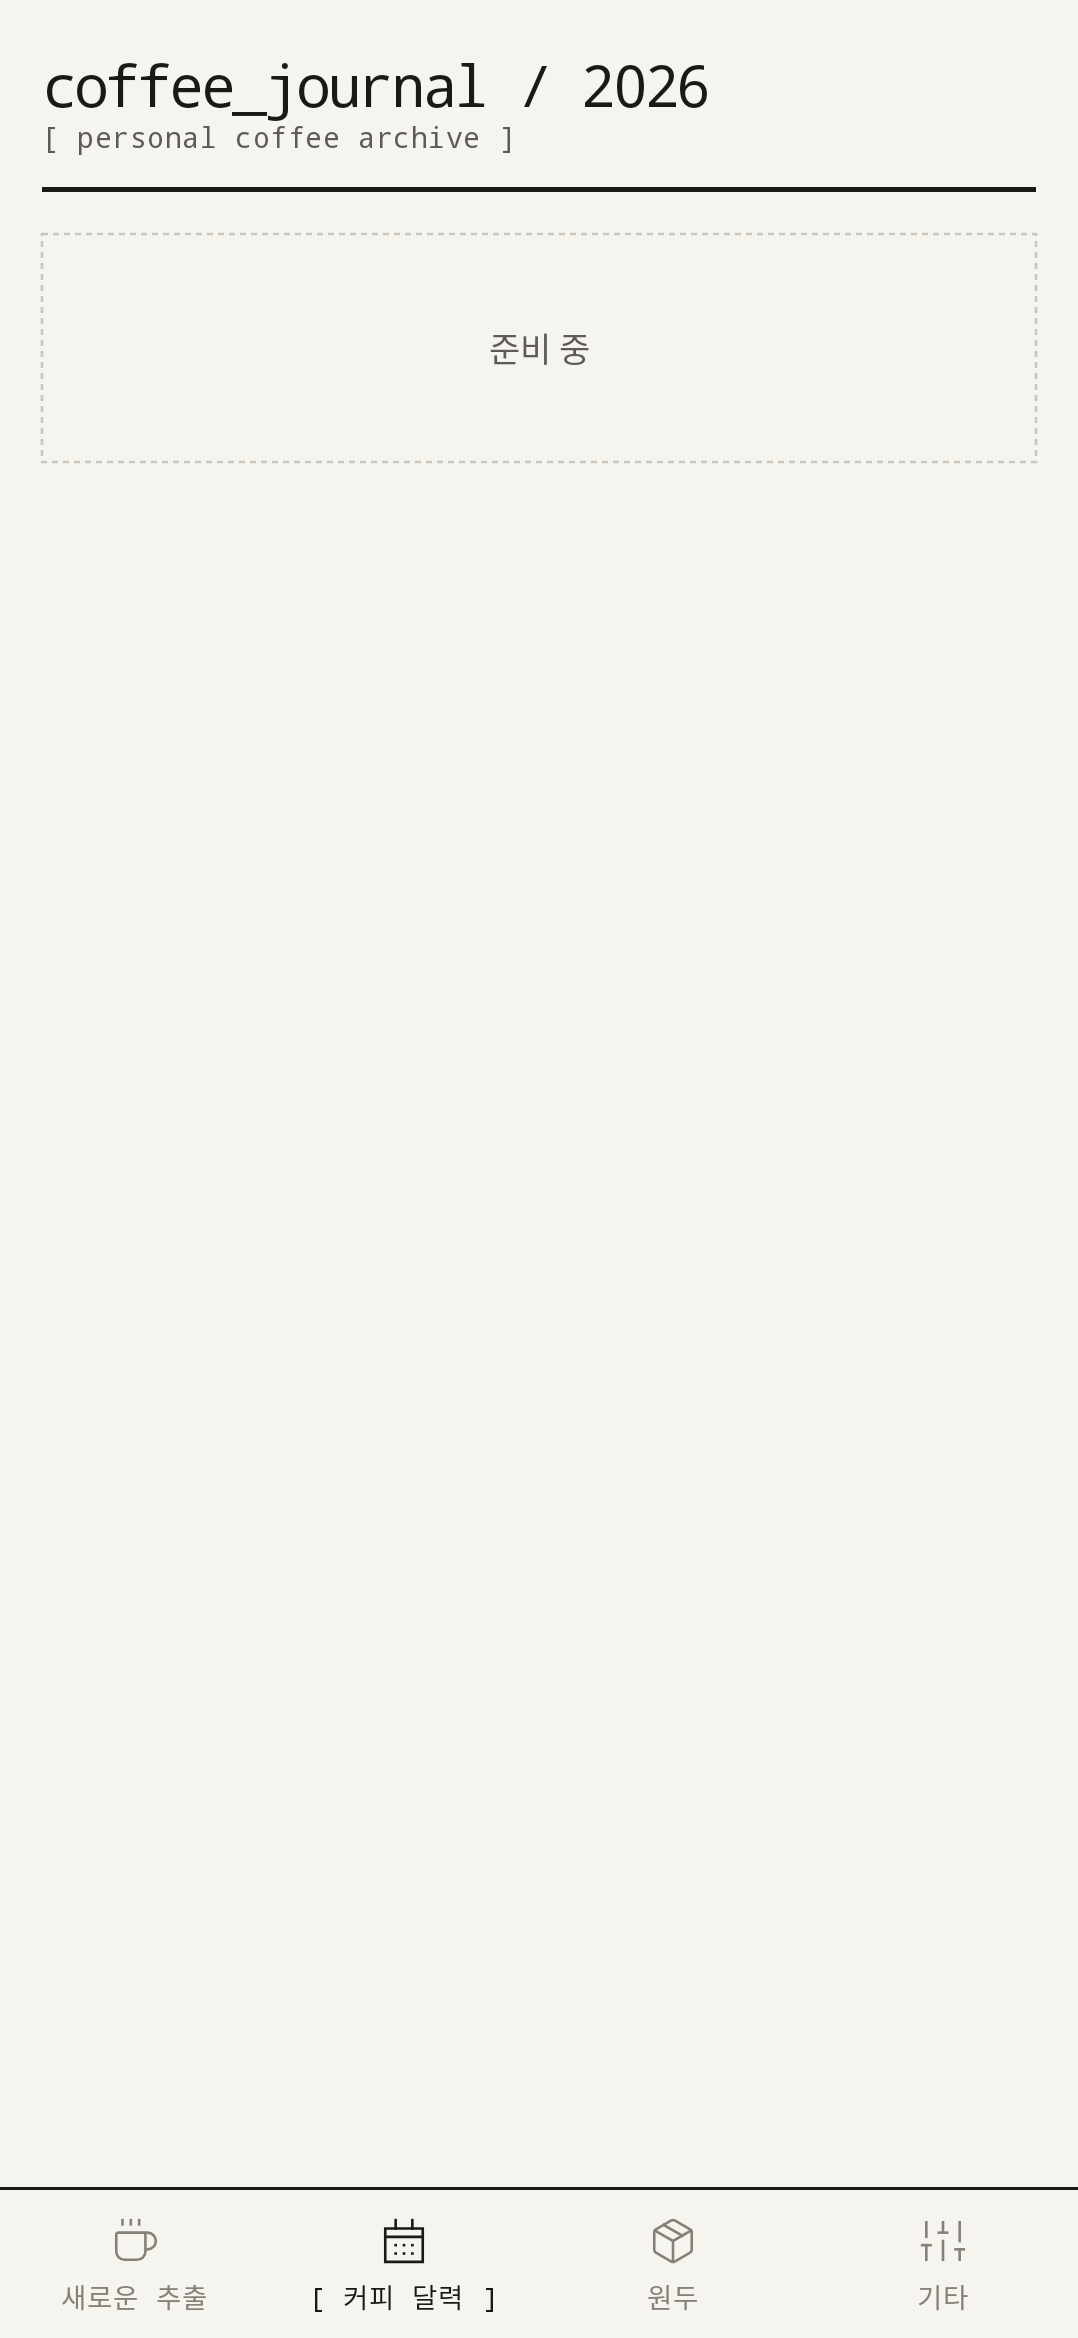
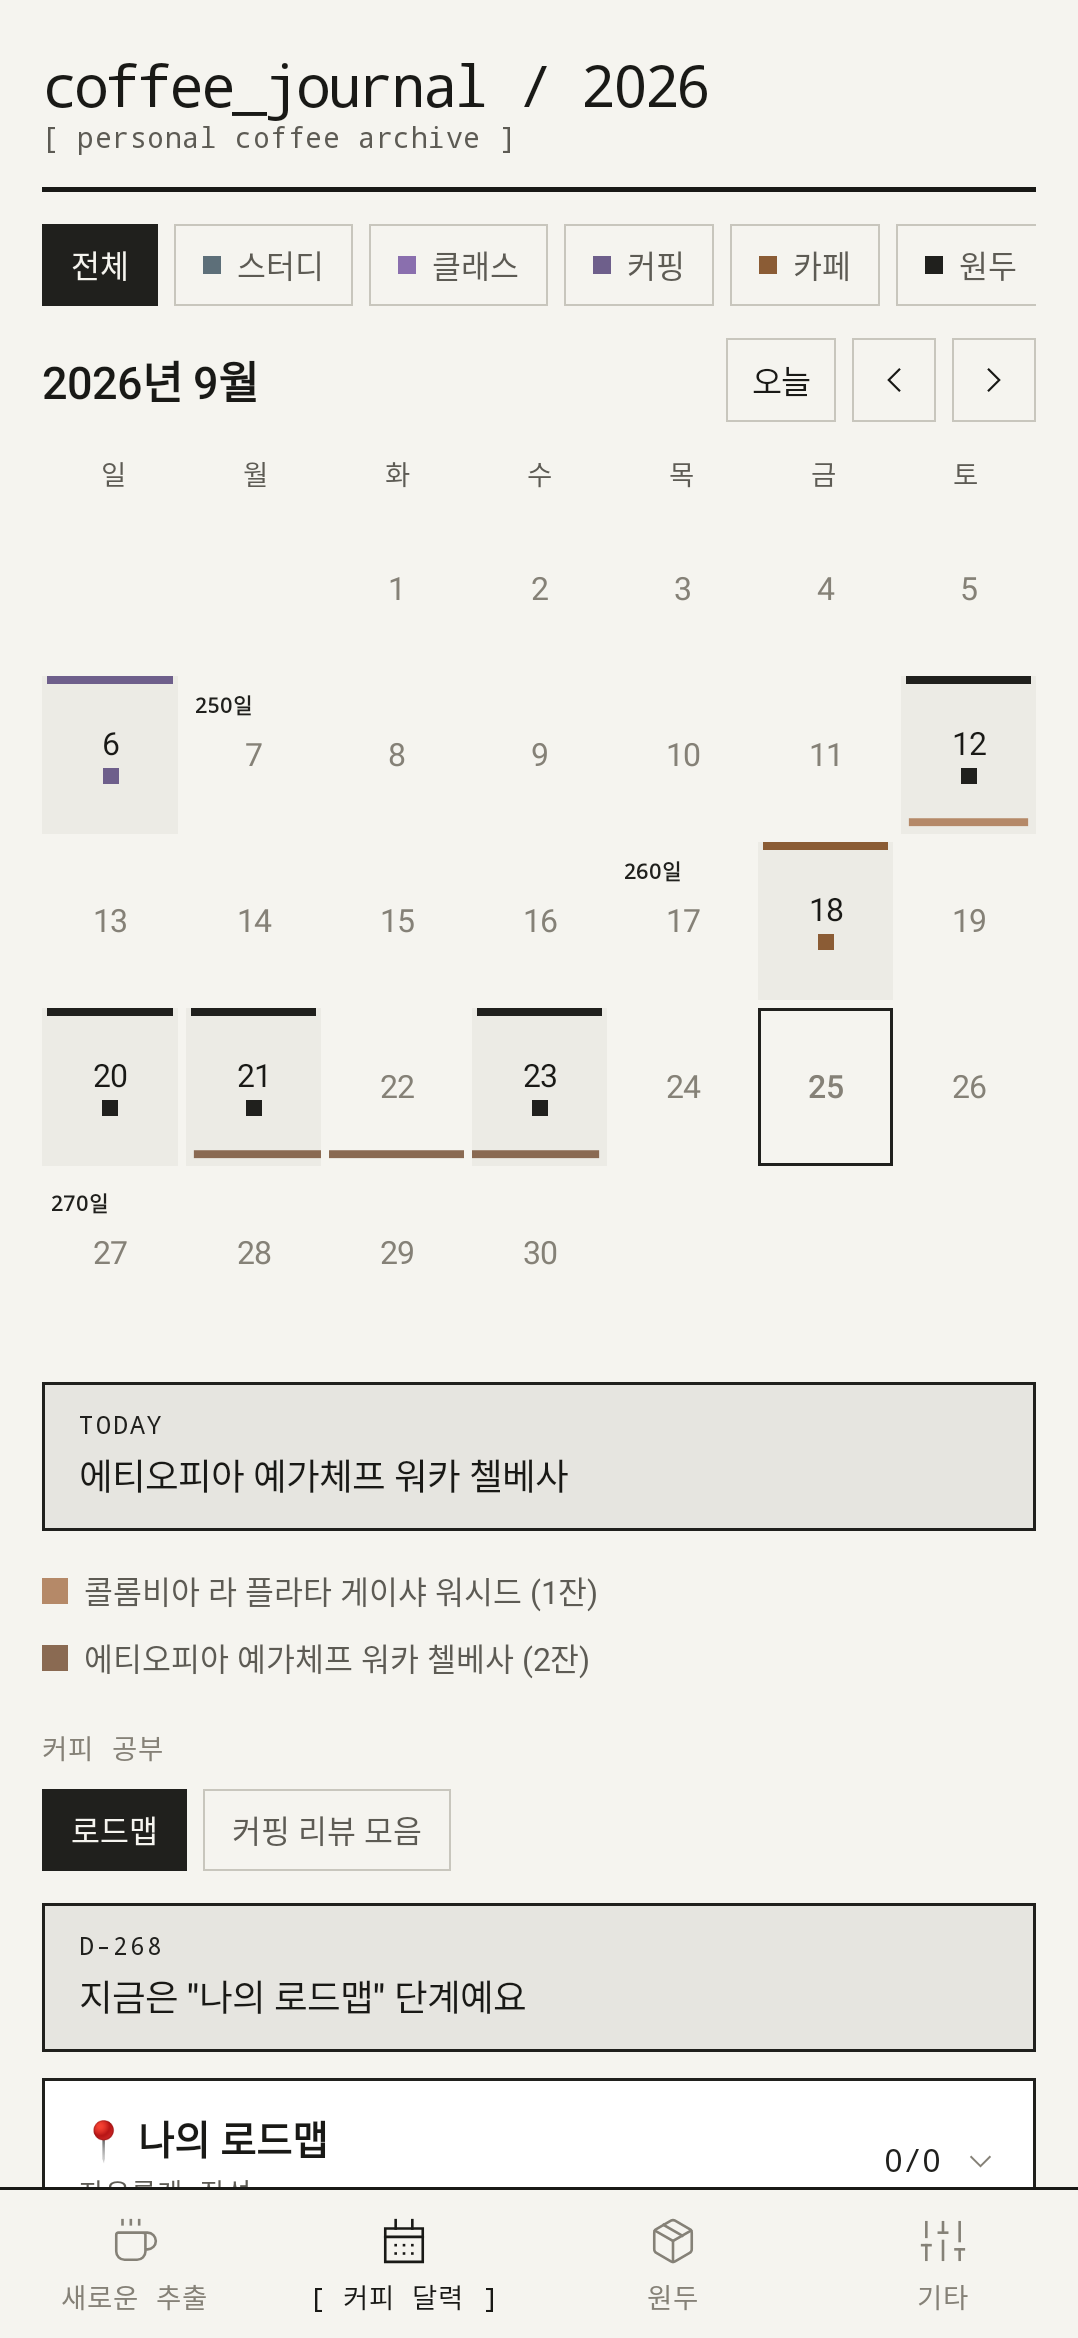
Merge calendar feature; tag bottom tabs for UI tests
Claude-Session: https://claude.ai/code/session_018QYnCDu2vDaVkATiKmJbxB

diff --git a/shared/src/commonMain/kotlin/com/coffeejournal/ui/nav/AppNav.kt b/shared/src/commonMain/kotlin/com/coffeejournal/ui/nav/AppNav.kt
@@ -23,6 +23,7 @@ import androidx.compose.runtime.getValue
 import androidx.compose.ui.Alignment
 import androidx.compose.ui.Modifier
 import androidx.compose.ui.graphics.vector.ImageVector
+import androidx.compose.ui.platform.testTag
 import androidx.compose.ui.unit.dp
 import androidx.navigation.NavGraph.Companion.findStartDestination
 import androidx.navigation.NavHostController
@@ -36,13 +37,13 @@ import com.coffeejournal.ui.theme.Dimens
 import com.coffeejournal.ui.theme.Hairline
 import com.coffeejournal.ui.theme.Ink
 
-data class TabSpec(val route: Route, val label: String, val icon: ImageVector, val routeName: String)
+data class TabSpec(val route: Route, val label: String, val icon: ImageVector, val routeName: String, val tag: String)
 
 val tabs = listOf(
-    TabSpec(Route.Extract, "새로운 추출", AppIcons.cup, Route.Extract::class.qualifiedName!!),
-    TabSpec(Route.Calendar, "커피 달력", AppIcons.calendar, Route.Calendar::class.qualifiedName!!),
-    TabSpec(Route.Bean, "원두", AppIcons.bean, Route.Bean::class.qualifiedName!!),
-    TabSpec(Route.Misc, "기타", AppIcons.misc, Route.Misc::class.qualifiedName!!),
+    TabSpec(Route.Extract, "새로운 추출", AppIcons.cup, Route.Extract::class.qualifiedName!!, "tab-extract"),
+    TabSpec(Route.Calendar, "커피 달력", AppIcons.calendar, Route.Calendar::class.qualifiedName!!, "tab-calendar"),
+    TabSpec(Route.Bean, "원두", AppIcons.bean, Route.Bean::class.qualifiedName!!, "tab-bean"),
+    TabSpec(Route.Misc, "기타", AppIcons.misc, Route.Misc::class.qualifiedName!!, "tab-misc"),
 )
 
 @Composable
@@ -81,7 +82,7 @@ private fun BottomBar(currentRoute: String?, onSelect: (Route) -> Unit) {
             tabs.forEach { tab ->
                 val selected = currentRoute?.startsWith(tab.routeName) == true
                 Column(
-                    Modifier.weight(1f).clickable { onSelect(tab.route) }.padding(top = 10.dp, bottom = 8.dp),
+                    Modifier.weight(1f).testTag(tab.tag).clickable { onSelect(tab.route) }.padding(top = 10.dp, bottom = 8.dp),
                     horizontalAlignment = Alignment.CenterHorizontally,
                 ) {
                     Icon(tab.icon, contentDescription = tab.label, tint = if (selected) Ink.text else Ink.textFaint, modifier = Modifier.size(19.dp))

diff --git a/androidApp/src/test/kotlin/com/coffeejournal/android/ScreenshotTest.kt b/androidApp/src/test/kotlin/com/coffeejournal/android/ScreenshotTest.kt
@@ -1,7 +1,7 @@
 package com.coffeejournal.android
 
 import androidx.compose.ui.test.junit4.createComposeRule
-import androidx.compose.ui.test.onNodeWithText
+import androidx.compose.ui.test.onNodeWithTag
 import androidx.compose.ui.test.onRoot
 import androidx.compose.ui.test.performClick
 import androidx.test.core.app.ApplicationProvider
@@ -36,11 +36,11 @@ class ScreenshotTest {
         compose.setContent { App() }
         compose.waitForIdle()
         compose.onRoot().captureRoboImage("screenshots/01-home.png")
-        compose.onNodeWithText("커피 달력").performClick(); compose.waitForIdle()
+        compose.onNodeWithTag("tab-calendar").performClick(); compose.waitForIdle()
         compose.onRoot().captureRoboImage("screenshots/02-calendar.png")
-        compose.onNodeWithText("원두").performClick(); compose.waitForIdle()
+        compose.onNodeWithTag("tab-bean").performClick(); compose.waitForIdle()
         compose.onRoot().captureRoboImage("screenshots/03-bean.png")
-        compose.onNodeWithText("기타").performClick(); compose.waitForIdle()
+        compose.onNodeWithTag("tab-misc").performClick(); compose.waitForIdle()
         compose.onRoot().captureRoboImage("screenshots/04-misc.png")
     }
 }
